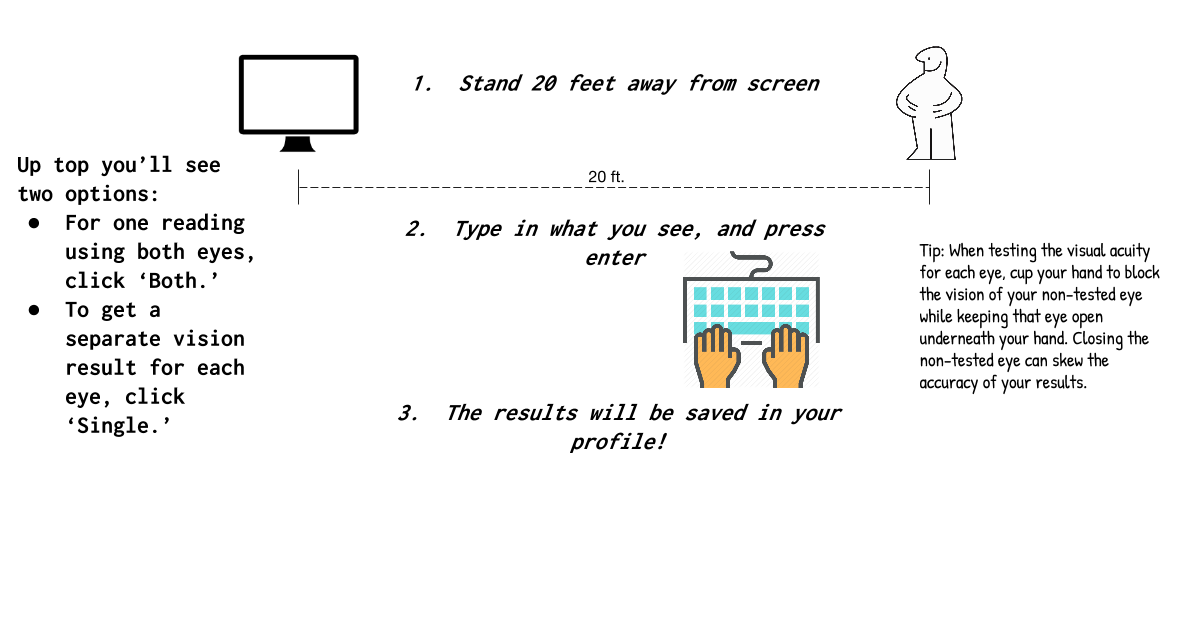
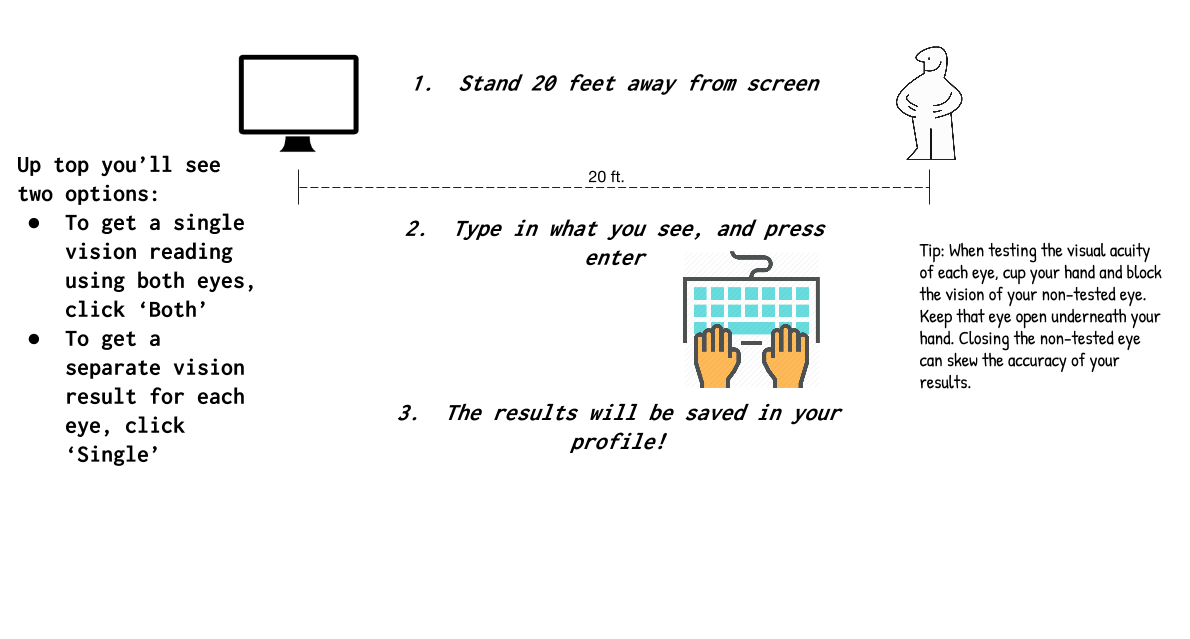
add sign in background and change instruction picture

Changed region(s): [[0.0, 0.3271, 0.2176, 0.7433], [0.7773, 0.4757, 0.995, 0.6244], [0.7773, 0.4163, 0.995, 0.446]]

diff --git a/public/css/application.css b/public/css/application.css
@@ -57,6 +57,11 @@ nav.navbar.navbar-default {
     padding-left: .5em;
 }
 
+.sign_in {
+  background-image: url("/pip/traintracks.jpg");
+  background-size: 100% auto;
+  height: 1000px;
+}
 
 
 
